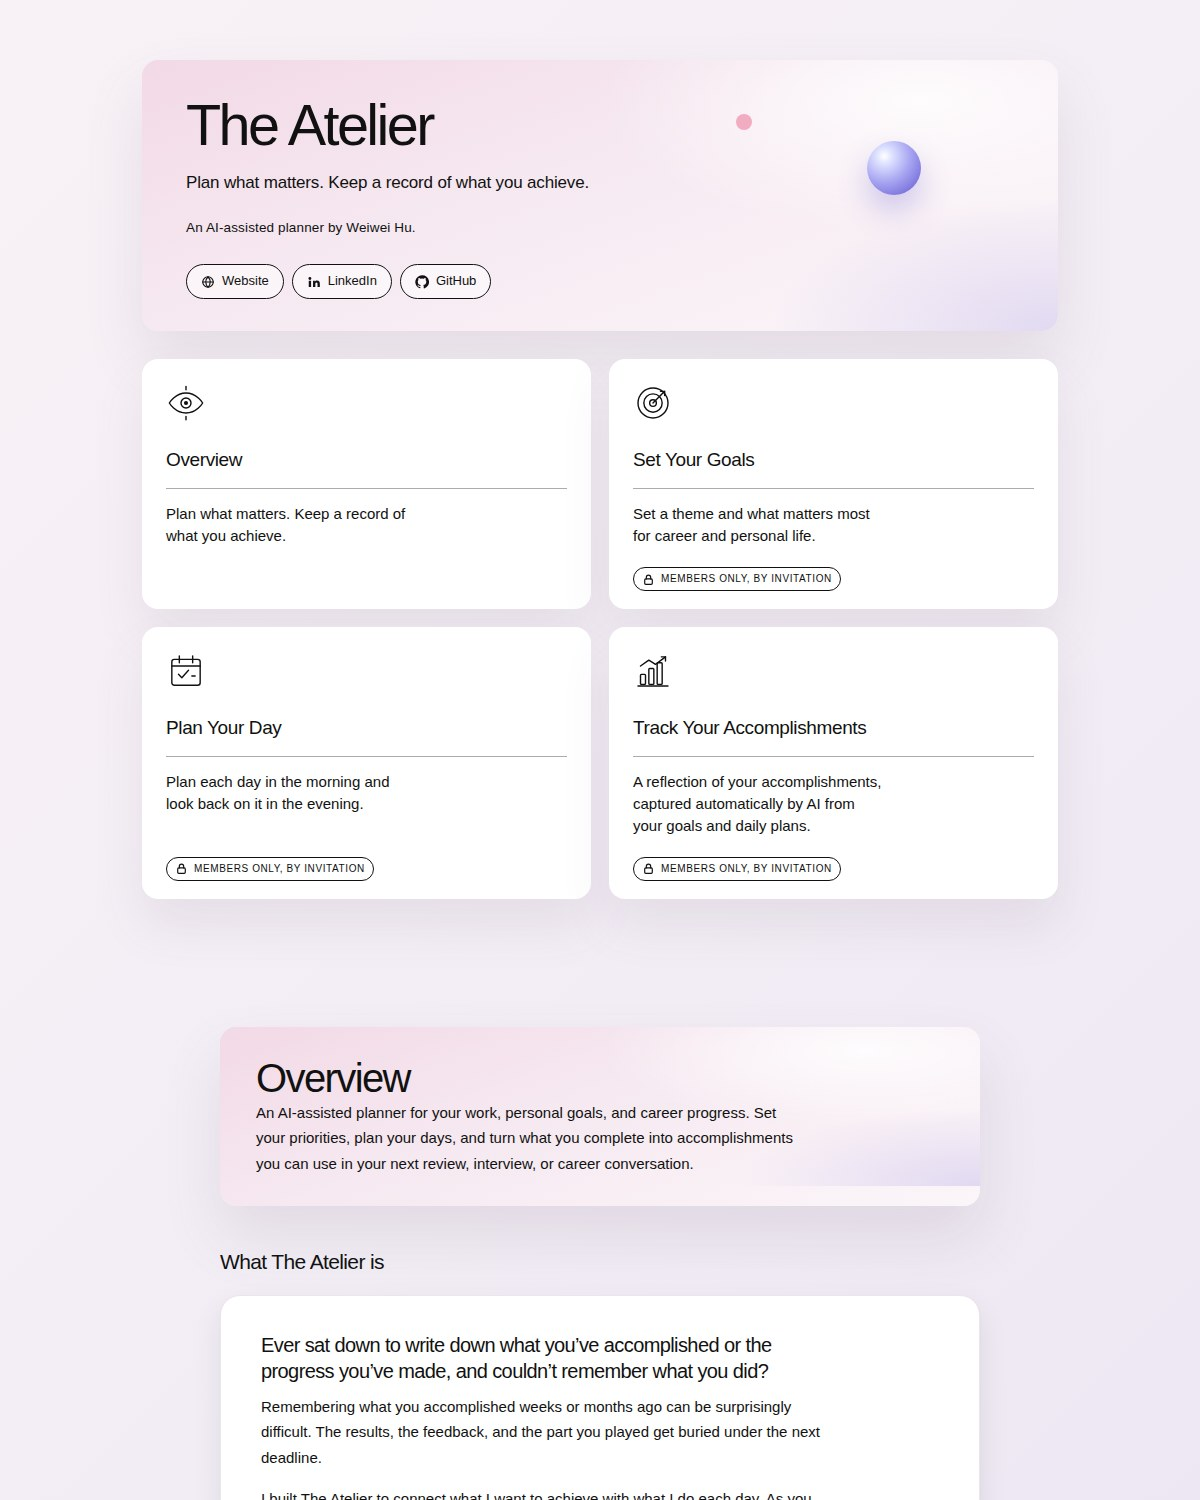
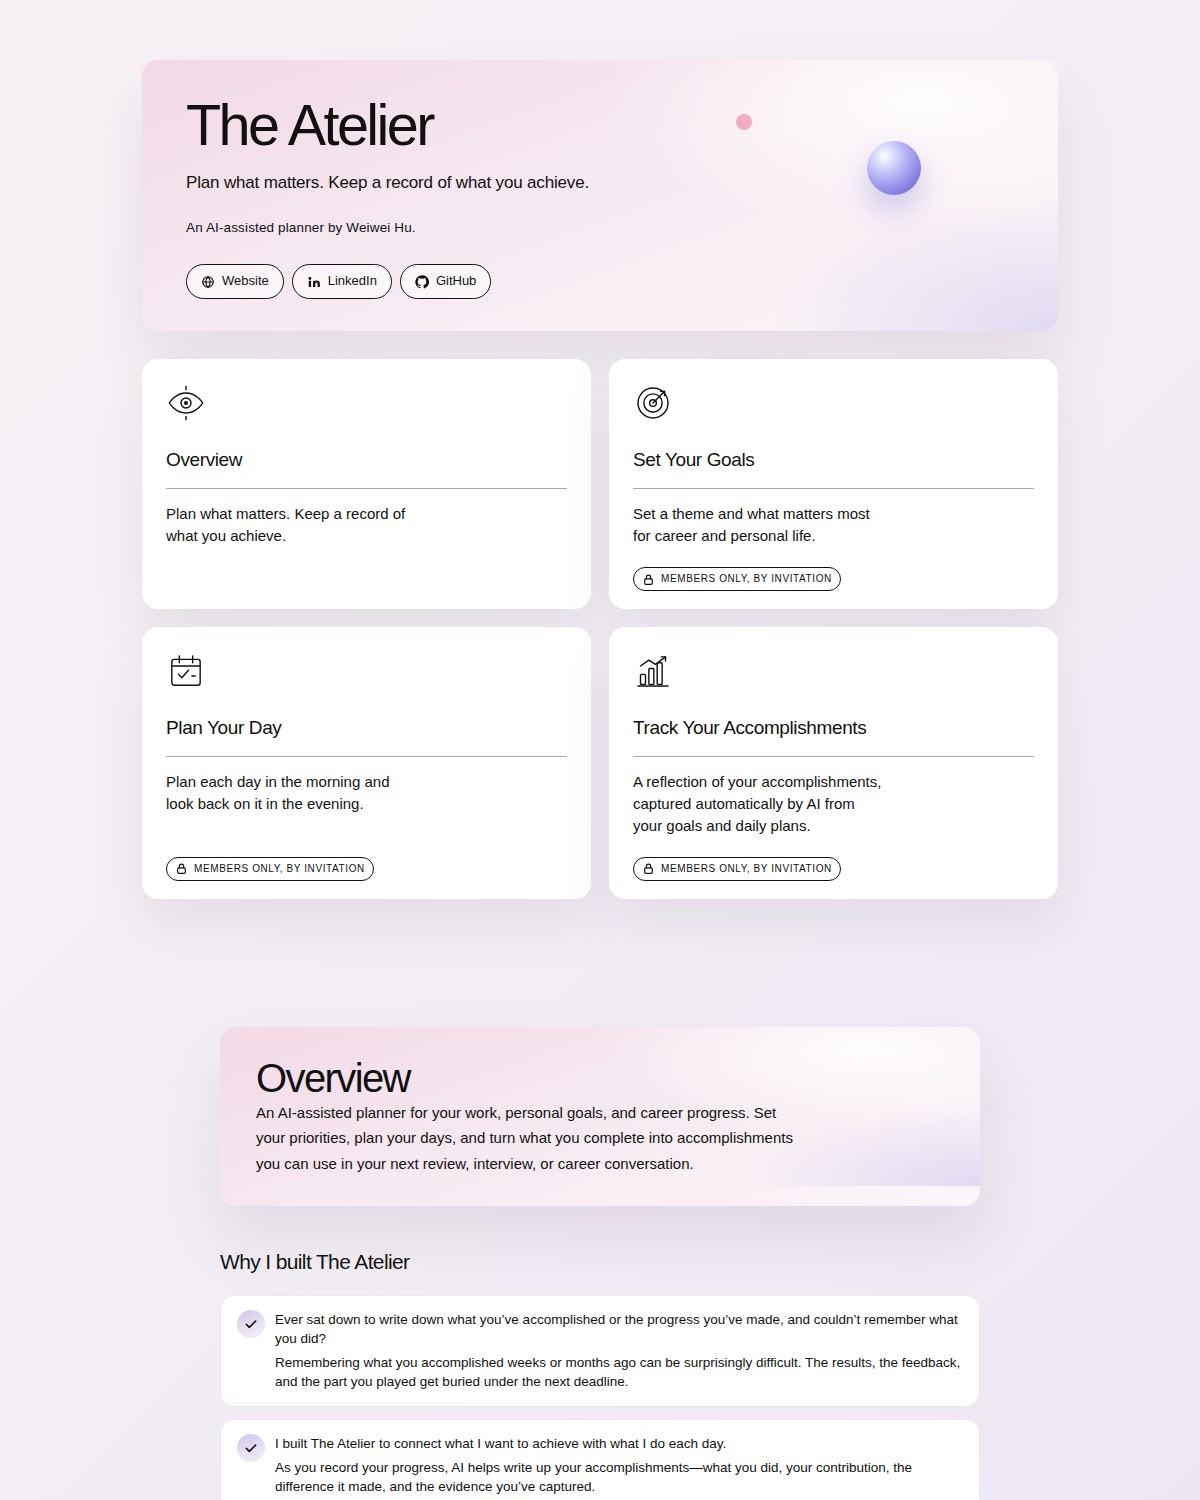
Overview: Why I built The Atelier

Changed region(s): [[0.185, 0.828, 0.74, 1.0], [0.6783, 0.8587, 0.8017, 0.92], [0.185, 0.8587, 0.2158, 0.8893]]

diff --git a/index.html b/index.html
@@ -2482,7 +2482,6 @@ b, strong, .exportbtn, .crumbs button[aria-current="page"], .seg button[aria-pre
 .gate h2 { width: 100%; text-wrap: wrap !important; }
 .feat.feat3 { grid-template-columns: minmax(0, 1fr) !important; }
 .feat.feat3 li b { display: block; font-weight: 500; margin-bottom: 4px; }
-section[aria-labelledby="introWhat"] > .story { margin-top: 14px; }
 @media (max-width: 640px) { .wrap .home-cover::after { width: 30px !important; height: 30px !important; right: 20px !important; top: auto !important; bottom: 20px !important; box-shadow: 0 10px 20px rgba(110, 100, 210, 0.30), -12px -38px 0 -10px rgba(240, 160, 185, 0.85) !important; } }
 </style>
 
@@ -2527,11 +2526,11 @@ section[aria-labelledby="introWhat"] > .story { margin-top: 14px; }
       <p class="intro-sub">An AI-assisted planner for your work, personal goals, and career progress. Set your priorities, plan your days, and turn what you complete into accomplishments you can use in your next review, interview, or career conversation.</p>
     </header>
     <section aria-labelledby="introWhat">
-      <h2 id="introWhat">What The Atelier is</h2>
-    <section class="story" aria-label="Why I built it">
-      <p><span class="lead">Ever sat down to write down what you’ve accomplished or the progress you’ve made, and couldn’t remember what you did?</span> Remembering what you accomplished weeks or months ago can be surprisingly difficult. The results, the feedback, and the part you played get buried under the next deadline.</p>
-      <p>I built The Atelier to connect what I want to achieve with what I do each day. As you record your progress, <strong>AI helps write up your accomplishments</strong>—what you did, your contribution, the difference it made, and the evidence you’ve captured.</p>
-    </section>
+      <h2 id="introWhat">Why I built The Atelier</h2>
+      <ul class="feat feat3">
+        <li><span class="ic"><svg viewBox="0 0 24 24" fill="none" stroke="currentColor" stroke-width="2.4" stroke-linecap="round" stroke-linejoin="round" aria-hidden="true"><path d="M5 12.5l4.5 4.5L19 7.5"></path></svg></span><span><b>Ever sat down to write down what you’ve accomplished or the progress you’ve made, and couldn’t remember what you did?</b>Remembering what you accomplished weeks or months ago can be surprisingly difficult. The results, the feedback, and the part you played get buried under the next deadline.</span></li>
+        <li><span class="ic"><svg viewBox="0 0 24 24" fill="none" stroke="currentColor" stroke-width="2.4" stroke-linecap="round" stroke-linejoin="round" aria-hidden="true"><path d="M5 12.5l4.5 4.5L19 7.5"></path></svg></span><span><b>I built The Atelier to connect what I want to achieve with what I do each day.</b>As you record your progress, AI helps write up your accomplishments—what you did, your contribution, the difference it made, and the evidence you’ve captured.</span></li>
+      </ul>
     </section>
     <section aria-labelledby="introCan">
       <h2 id="introCan">How The Atelier works</h2>

diff --git a/README.md b/README.md
@@ -10,11 +10,10 @@ An AI-assisted planner for your work, personal goals, and career progress. Set y
 
 ![The Atelier: the home page and the Overview](cover.jpg)
 
-## What The Atelier is
+## Why I built The Atelier
 
-**Ever sat down to write down what you've accomplished or the progress you've made, and couldn't remember what you did?** Remembering what you accomplished weeks or months ago can be surprisingly difficult. The results, the feedback, and the part you played get buried under the next deadline.
-
-I built The Atelier to connect what I want to achieve with what I do each day. As you record your progress, AI helps write up your accomplishments—what you did, your contribution, the difference it made, and the evidence you've captured.
+- **Ever sat down to write down what you've accomplished or the progress you've made, and couldn't remember what you did?** Remembering what you accomplished weeks or months ago can be surprisingly difficult. The results, the feedback, and the part you played get buried under the next deadline.
+- **I built The Atelier to connect what I want to achieve with what I do each day.** As you record your progress, AI helps write up your accomplishments—what you did, your contribution, the difference it made, and the evidence you've captured.
 
 ## How The Atelier works
 
